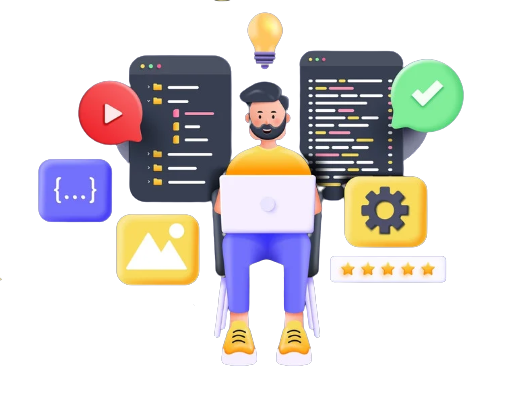
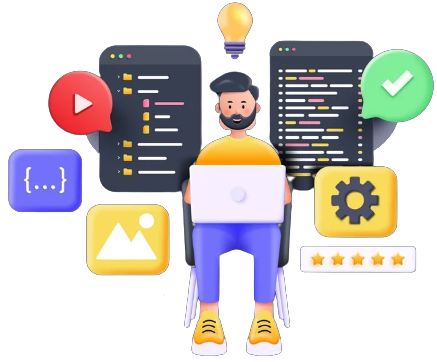
styles the home page

diff --git a/index.html b/index.html
@@ -13,6 +13,7 @@
   <!-- custom css -->
   <link rel="stylesheet" href="css/global.css">
   <link rel="stylesheet" href="css/navigation.css">
+  <link rel="stylesheet" href="css/home_styles.css">
   <!-- favicon -->
   <link rel="shortcut icon" href="Assets/img/logo/favicon/home-page.png" type="image/x-icon">
 </head>
@@ -44,6 +45,19 @@
   </div>
   <!-- navigation end -->  
 
+  <!-- home page start -->
+  <div class="container-fluid d-flex flex-row-reverse home justify-content-around align-items-center mt-5">
+    <div class="img">
+      <img src="Assets/img/home_banner.png" alt="Home banner">
+    </div>
+    <div class="desc w-40">
+      <h1>ACE<span>SSIGNMENT</span></h1>
+      <p>My goal is to guide aspiring developers on their journey and make the life of an IT students easier by sharing my knowledge and experience, offering explanations and guidance on coding assignments, and helping them navigate the challenges and opportunities in the field </p>
+      <button class="btn fw-bold"><a href="about.html">LEARN MORE</a></button>
+    </div>
+    
+  </div>
+  <!-- home page end -->
 
 
   <!-- bootstrap script -->

diff --git a/css/about_styles.css b/css/about_styles.css
@@ -13,22 +13,6 @@ About us styles
   width: 700px;
 }
 
-.desc h1{
-  color: #FFF;
-  font-weight: 600;
-  font-size: 4rem;
-}
-
-.desc h1 span{
-  color: var(--secondary);
-}
-
-.desc p{
-  color: var(--text-color);
-  text-align: justify ;
-  font-size: 1.25em;
-}
-
 /* mission vision */
 #about-2{
   margin-top: 50px;
@@ -248,5 +232,4 @@ About us styles
       width: 100%;
     }
 }
-
 /* responsive design mobile device */

diff --git a/css/global.css b/css/global.css
@@ -62,3 +62,22 @@ body::-webkit-scrollbar-thumb {
 .w-10{
   width: 10%;
 }
+
+/*-------------
+Common styles
+---------------*/
+.desc h1 {
+  color: #FFF;
+  font-weight: 600;
+  font-size: 4rem;
+}
+
+.desc h1 span {
+  color: var(--secondary);
+}
+
+.desc p {
+  color: var(--text-color);
+  text-align: justify;
+  font-size: 1.25em;
+}
